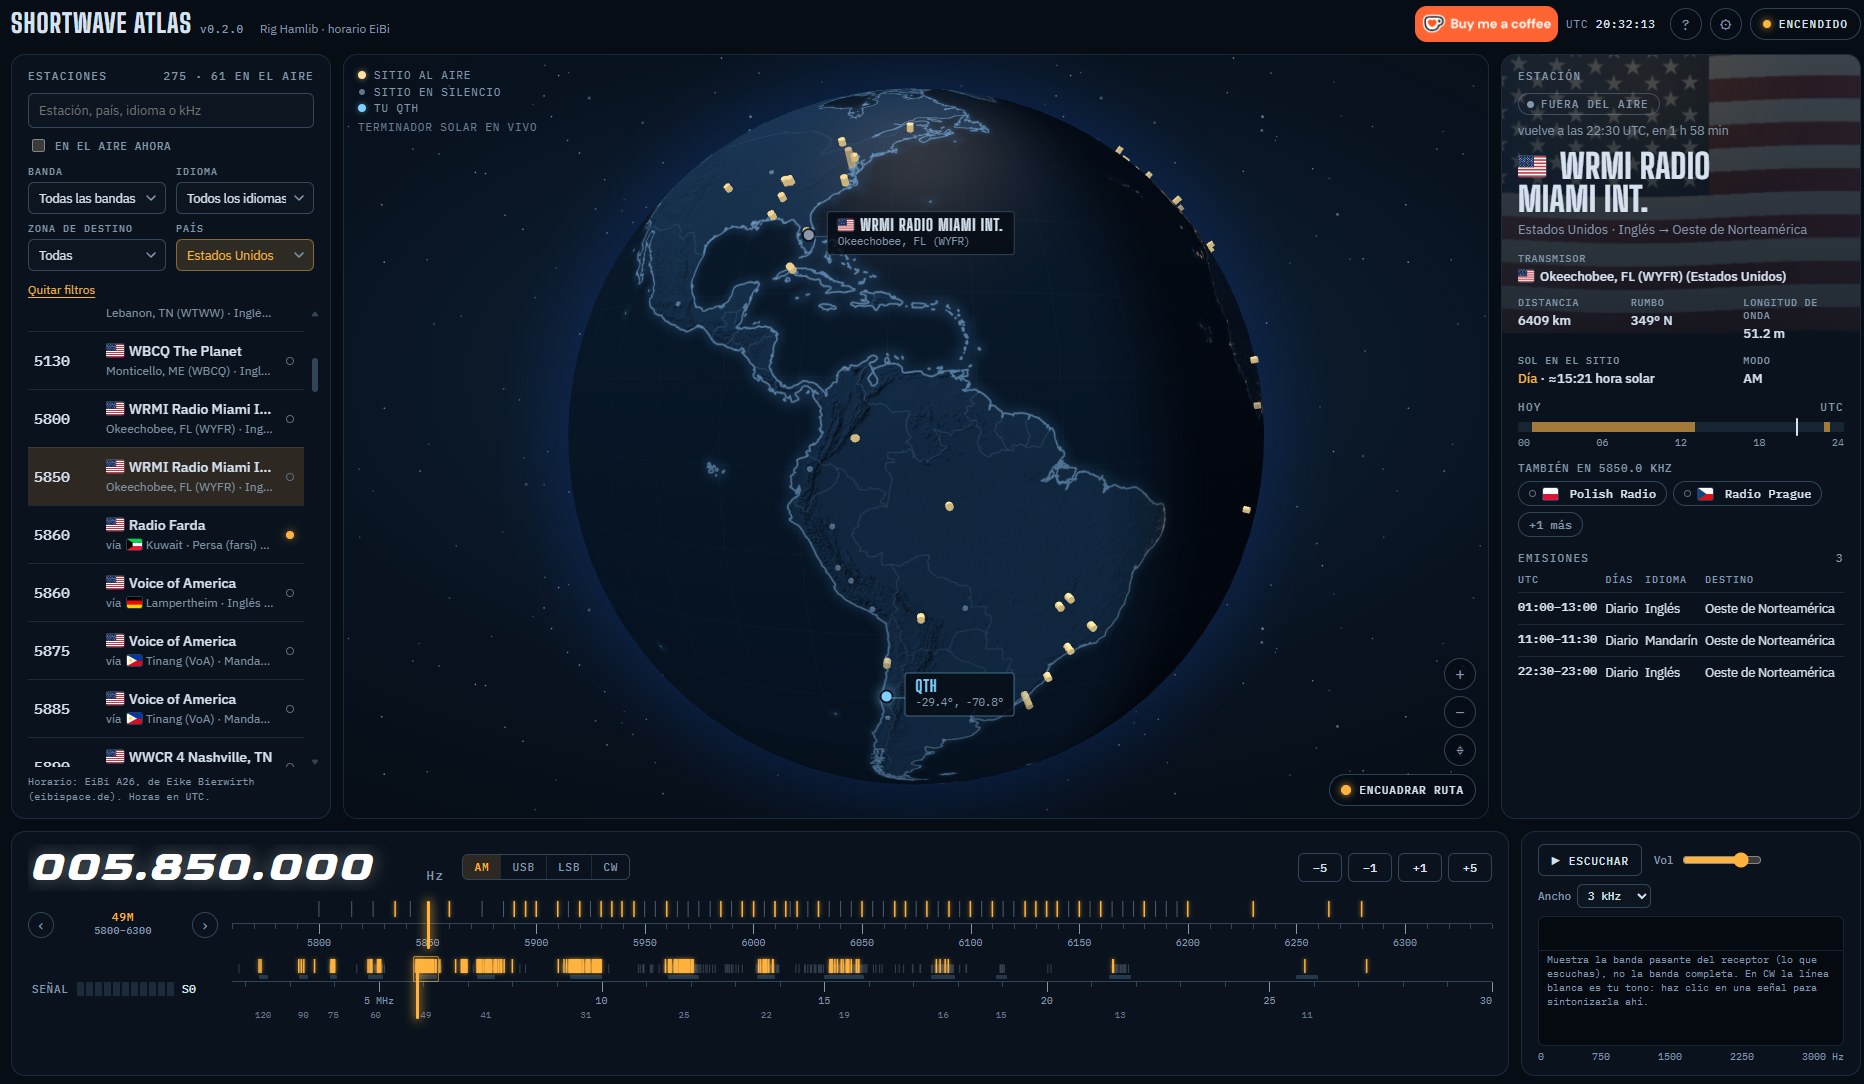
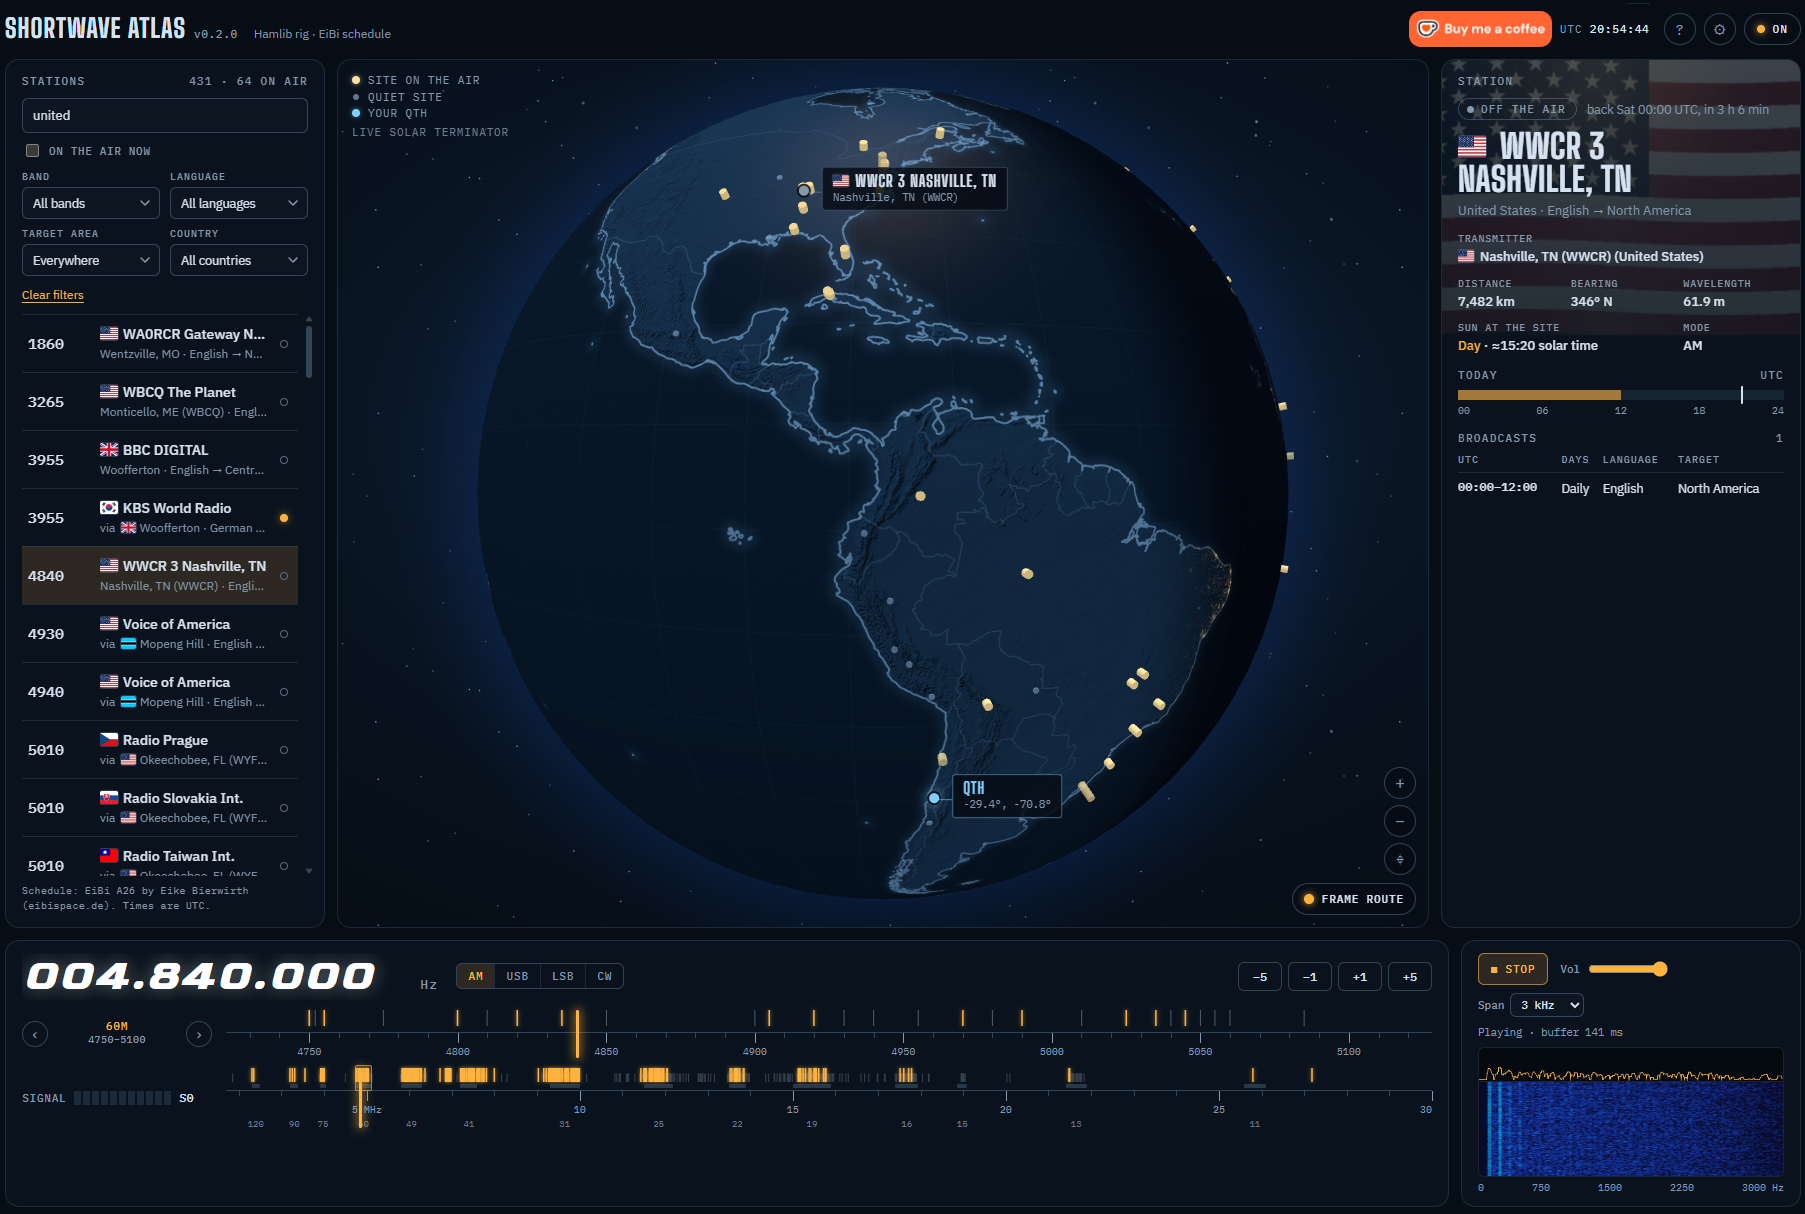
docs: rewrite the README intro, show connecting a rig and listening

diff --git a/README.md b/README.md
@@ -8,13 +8,34 @@
 ![Rust](https://img.shields.io/badge/Rust-000000?logo=rust&logoColor=white)
 ![Tauri v2](https://img.shields.io/badge/Tauri-v2-24C8DB?logo=tauri&logoColor=white)
 ![Receive only](https://img.shields.io/badge/receive--only-never%20transmits-success)
-[![Ko-fi](https://img.shields.io/badge/Ko--fi-support-FF5E5B?logo=ko-fi&logoColor=white)](https://ko-fi.com/J6F024AKJE)
 
-Shortwave atlas for your rig. Tune a frequency and the globe flies to the transmitter, draws the
-great-circle path to your QTH over the live day/night terminator, and opens the station's card:
-on-air status, distance, bearing, the Sun at the transmitter, and the schedule.
+[![ko-fi](https://ko-fi.com/img/githubbutton_sm.svg)](https://ko-fi.com/J6F024AKJE)
+
+**See what you're hearing.** Shortwave Atlas connects to your radio and turns every frequency you
+tune into a place on the map. Spin the dial and the globe flies to the transmitter, traces the path
+from your station across the live day/night line, and tells you who's on the air, how far away
+they are, which way to point your antenna and when they broadcast next.
 
 ![Shortwave Atlas tuned to WRMI on 5850 kHz: the station list, the globe with the transmitter sites and the QTH, the station card and the band scale](docs/images/screenshot.png)
+
+<table>
+<tr>
+<td width="50%" valign="top">
+<b>Plug in your radio and go.</b> Pick your model from Hamlib's list of hundreds of rigs, choose
+the serial port and press Connect. Shortwave Atlas starts and looks after the CAT link for you,
+and tells you in plain words what's wrong if the radio doesn't answer.
+</td>
+<td width="50%" valign="top">
+<b>Listen from anywhere.</b> Turn on Listen and the rig's own audio plays in the app, and in any
+browser on your network or Tailscale, with an audio waterfall alongside. Your radio's USB sound
+card is found and listed first.
+</td>
+</tr>
+<tr>
+<td align="center"><img src="docs/images/connectyourrig.png" width="380" alt="Settings → Rig: My radio selected, the Hamlib model list open on the Yaesu FTDX-10, and the status Connected · 7205.0 kHz AM with rigctld running"></td>
+<td align="center"><img src="docs/images/listen.png" width="380" alt="Settings → Audio: Listen to the rig selected, the sound card list open with the rig's USB AUDIO CODEC first, and the status Ready · nobody is listening"></td>
+</tr>
+</table>
 
 The station data is the [EiBi](http://www.eibispace.de/dx/) shortwave schedule (about 2,000
 frequency and station pairs from 170 transmitter sites), bundled with each release. Search it by
@@ -98,6 +119,11 @@ can:
 - choose the Hamlib model, serial port and baud rate;
 - press **Connect**.
 
+The page shows the live connection status and explains common problems: no `dialout` permission,
+port unplugged or busy, the rigctld TCP port taken, the radio not answering, Hamlib missing.
+**Connect** saves the choice into `swatlas.toml`, keeping your comments. The rigctld executable path
+can only be set in the file, never from the page.
+
 The **Audio** section on the same page turns on **Listen**. It captures the rig's audio from a
 sound card with `ffmpeg` (`sudo apt install ffmpeg`), for the desktop app and remote browsers alike.
 It lists the sound cards that can capture, with the rig's USB codec first (the Burr-Brown
@@ -105,11 +131,6 @@ It lists the sound cards that can capture, with the rig's USB codec first (the B
 16 kHz carries audio up to 8 kHz and costs 256 kbit/s per listener. **Apply** switches over live and
 saves the choice. The page shows whether ffmpeg is capturing, and explains a busy or missing card or
 a missing `audio` group. The ffmpeg executable path can only be set in the file.
-
-The page shows the live connection status and explains common problems: no `dialout` permission,
-port unplugged or busy, the rigctld TCP port taken, the radio not answering, Hamlib missing.
-**Connect** saves the choice into `swatlas.toml`, keeping your comments. The rigctld executable path
-can only be set in the file, never from the page.
 
 To configure by hand, copy `docs/swatlas.example.toml` to `~/.config/swatlas/swatlas.toml`. The
 desktop app and the server share it. The prototype's environment variables (`RIGCTLD_PORT`, `WEB_AUTH`, `AUDIO_DEVICE`, ...)
